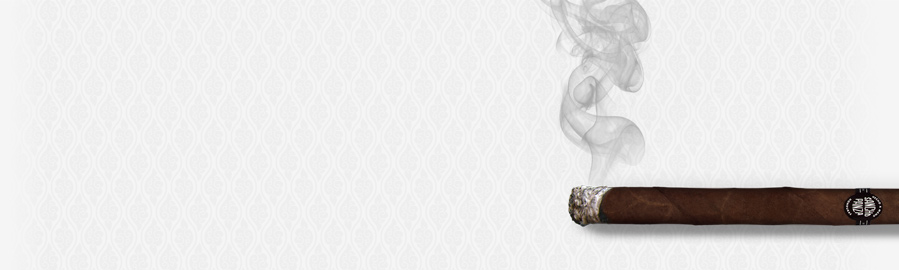
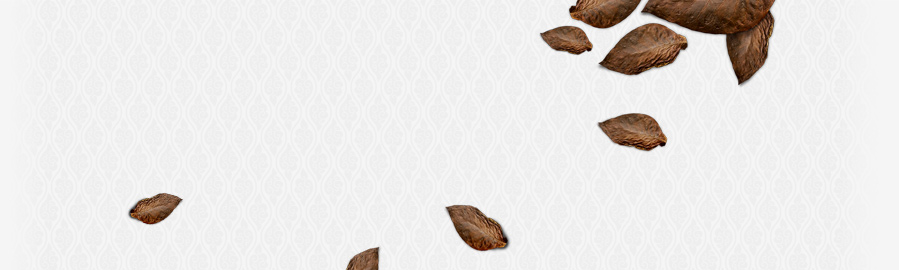
mainImage - killed cigar, replaced with tobacco leaves

diff --git a/cigarworld/index.html b/cigarworld/index.html
@@ -244,7 +244,7 @@
 	<header>
 		<div id="mainImage">
 			<div id="cigar">
- 				<img src="images/cigar.png" alt="cigar" width="1800" height="541" />
+ 				<img src="images/tobacco.png" alt="tobacco" width="1800" height="541" />
  			</div>
 		</div>
 	</header>
